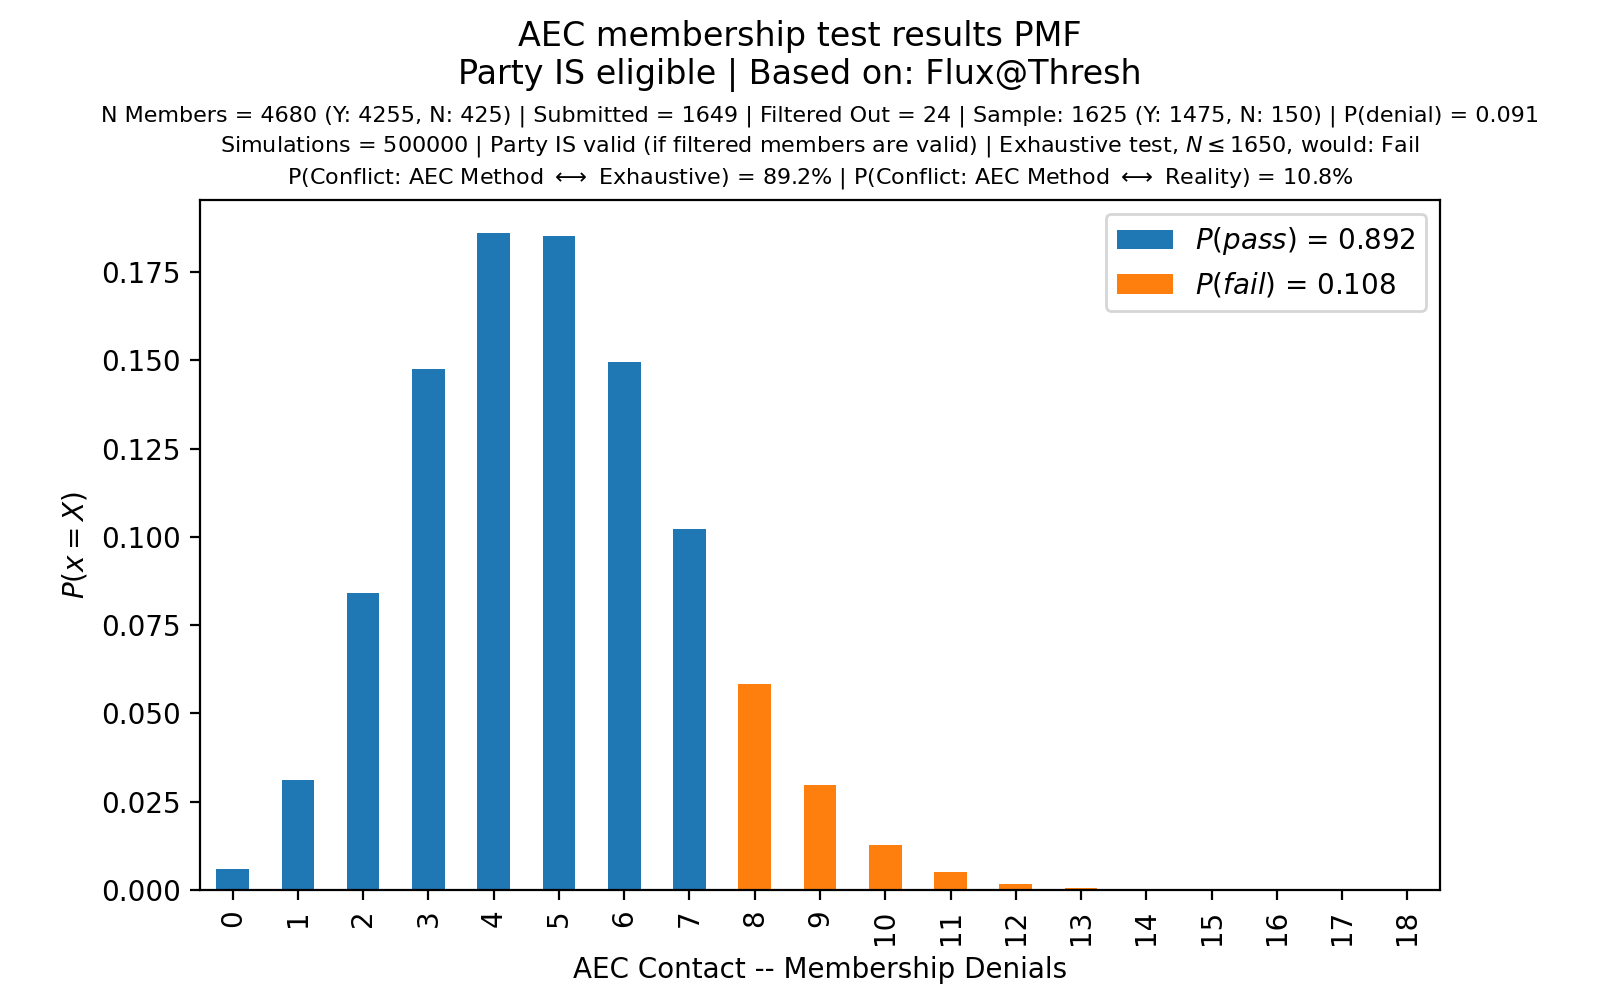
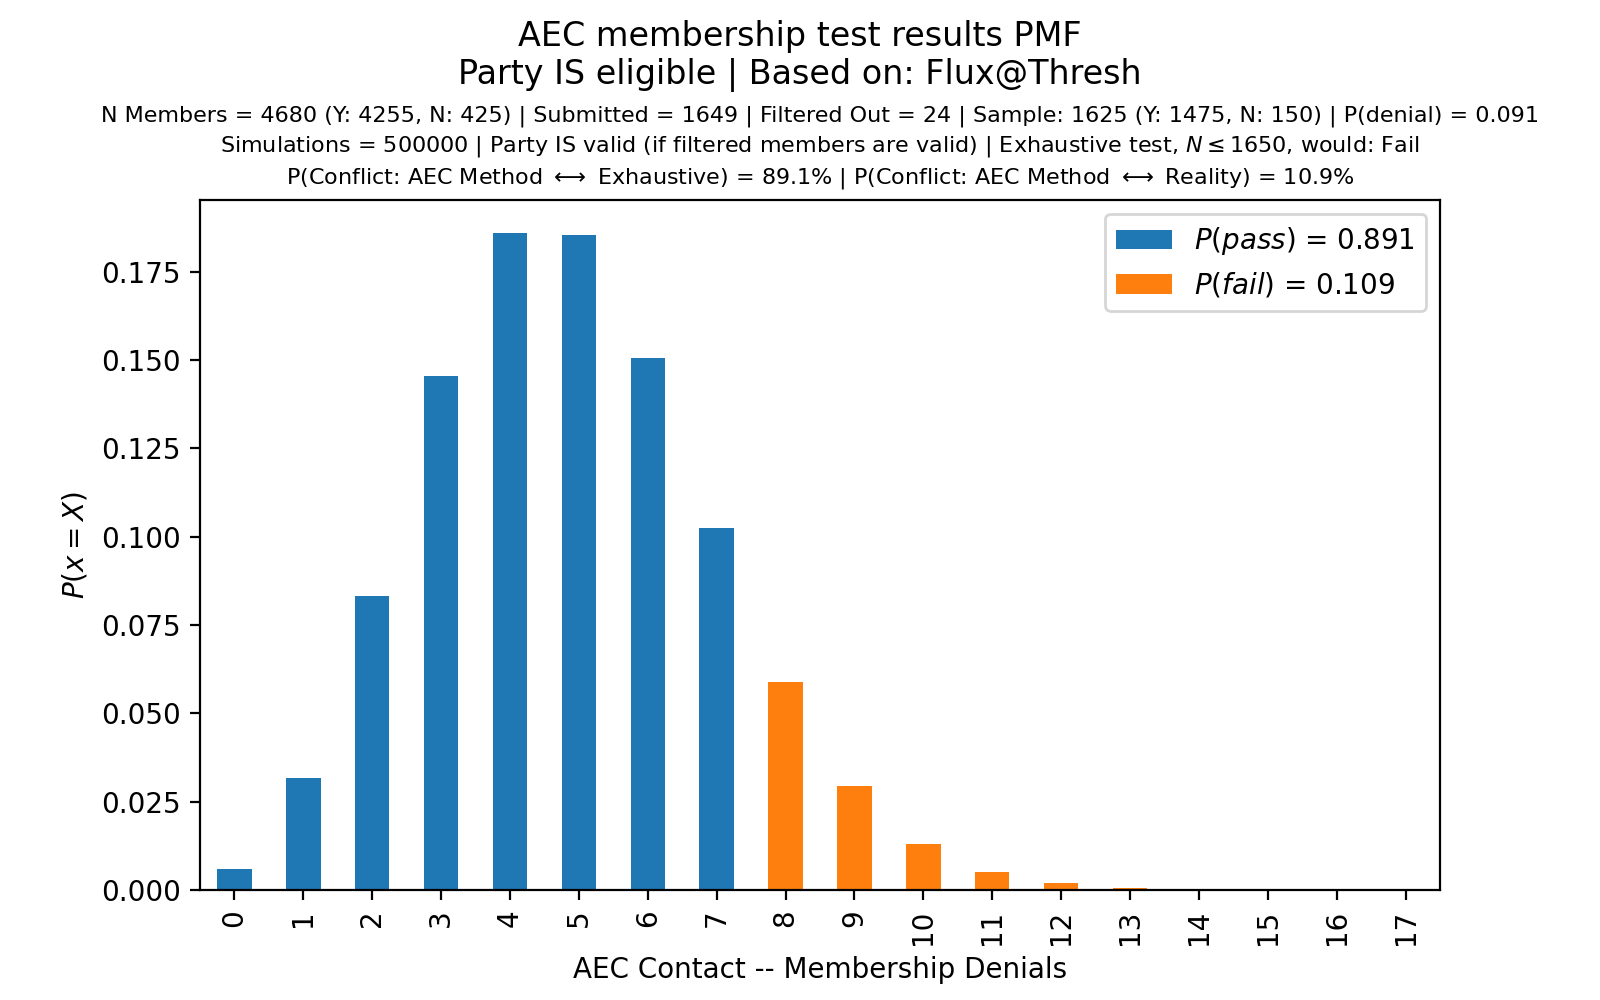
well, I think we can conclude that this shit's fucked.

diff --git a/main.py b/main.py
@@ -403,6 +403,7 @@ def aec(n_trials, show, jobs, force, non_essential):
     _run(RunSpec(frs.total_members, 150/1650, frs.sample_size, 99), party_name="Flux@Thresh+F99")
     _run(RunSpec(frs.total_members, 150/1650, frs.sample_size, 99, filter_any=True), party_name="Flux@Thresh+F99")
     _run(RunSpec(frs.total_members, 150/1650, frs.sample_size, 149), party_name="Flux@Thresh+F149")
+    _run(RunSpec(frs.total_members, 150/1650, frs.sample_size, 149, filter_any=True), party_name="Flux@Thresh+F149")
 
     # https://aec.gov.au/Parties_and_Representatives/Party_Registration/Deregistered_parties/files/statement-of-reasons-australian-peoples-party-s137-deregistration.pdf
     # Note: no way they were valid with 25 denials to 12 confirmations

diff --git a/README.md b/README.md
@@ -28,7 +28,7 @@ Additionally, experimental evidence shows that the confidence of Flux's 2021 mem
 
 The AEC's claim that their membership tests are conducted to a confidence of 90% are proven false. In actual fact, for a party that is capable of providing a list of 1,650 members wherein exactly 1,500 members will not deny membership (and 150 will): experimental evidence proves that the worst-case confidence of the AEC's membership test is just 15.1%, indicating a false negative rate of 84.9%. This is an indication of gross negligence or gross incompetence, or both.
 
-*Note: calculated values given in this document sometimes differ from graphs by ±0.1% (i.e., 1 part per 1,000). This is assumed to be negligible and a non-critical error.*
+*Note: calculated values given in this document (including graphs) are assumed to have an error of ±0.1% (i.e., 1 part per 1,000). This is taken to be negligible and a non-critical error.*
 
 ## 1. Background Context
 
